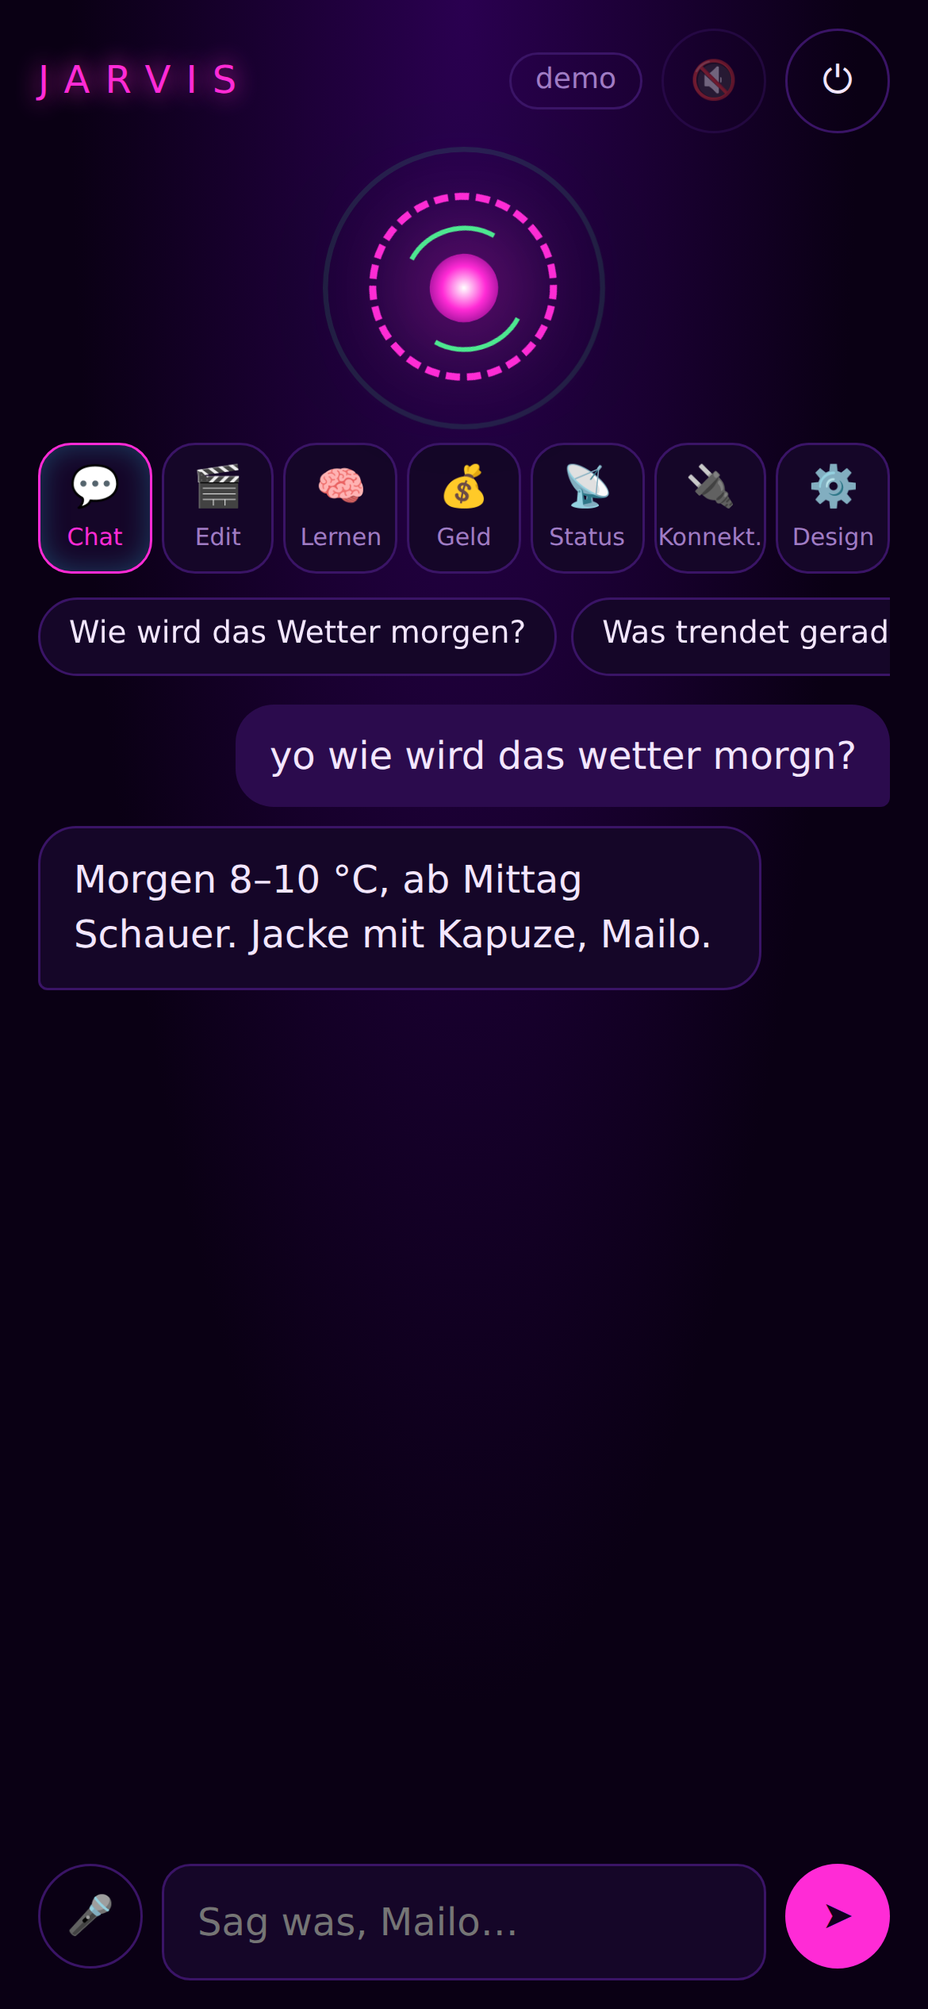
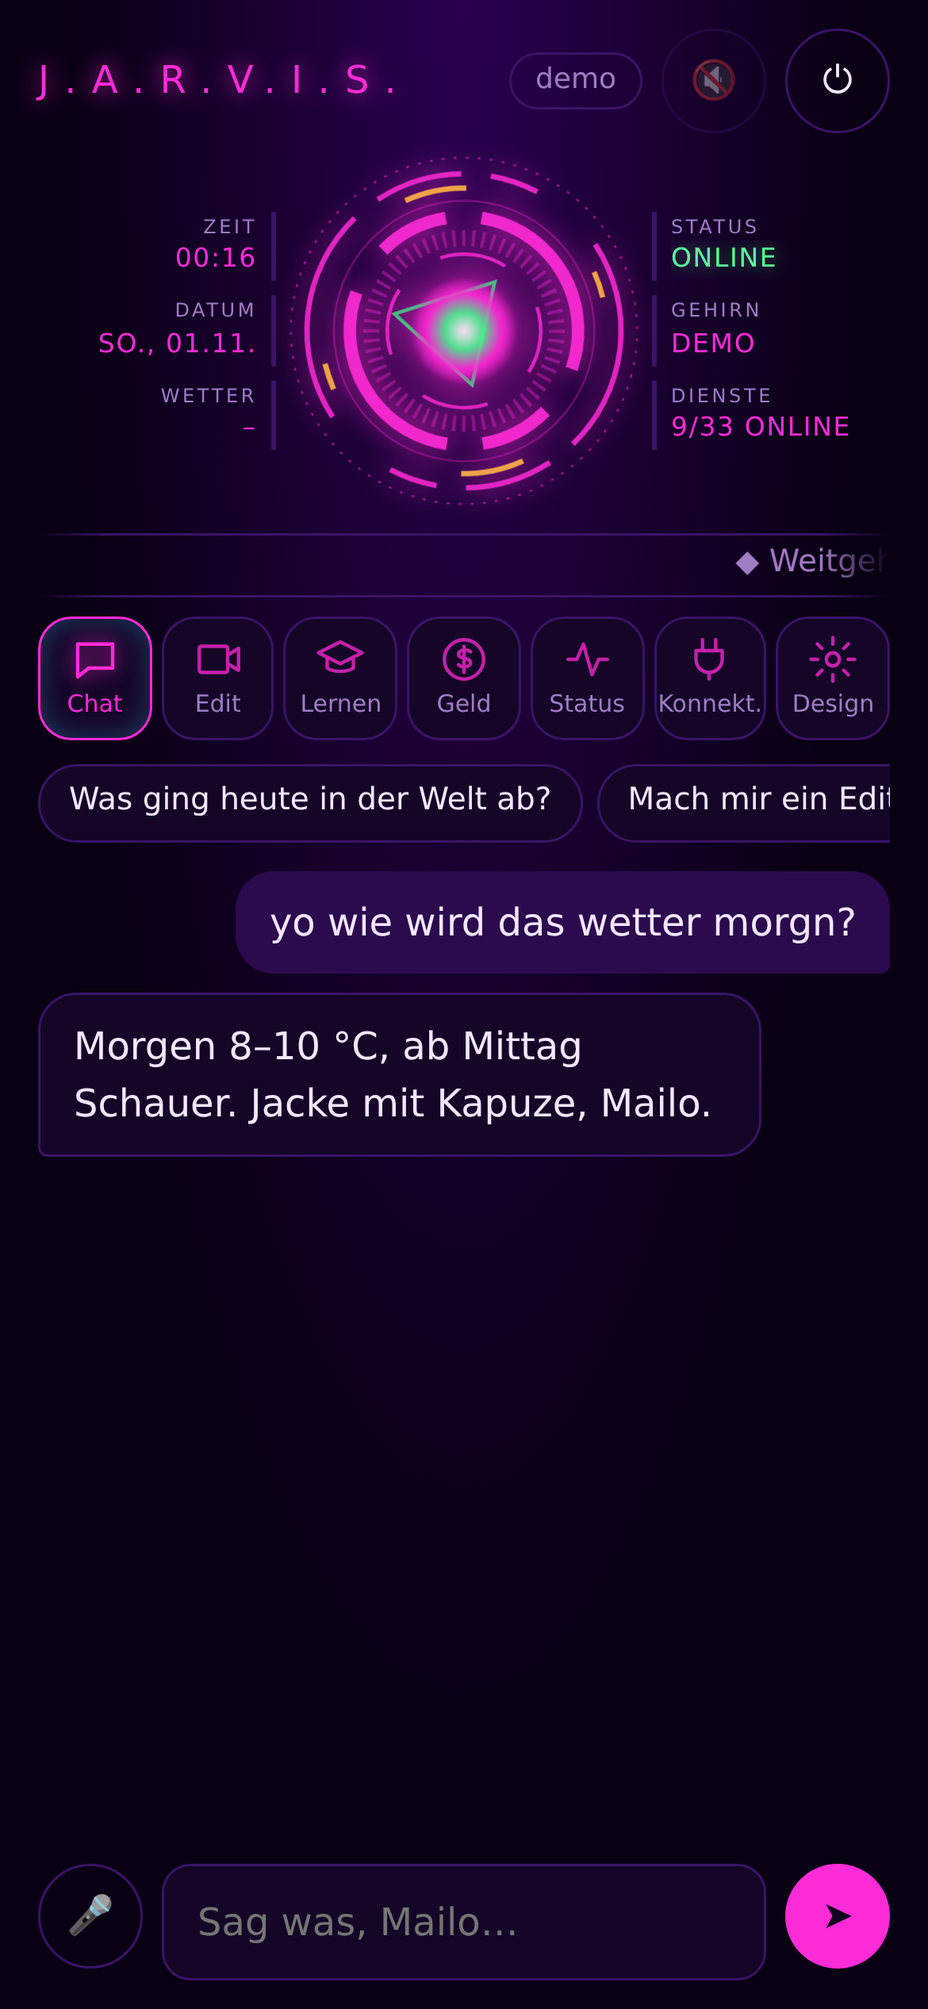
Iron-Man-JARVIS-Look: HUD mit Arc-Reactor-Kreis, Readouts, Nachrichten-Laufband, Boot-Sequenz, Stimm-Puls

diff --git a/web/static/hud.css b/web/static/hud.css
@@ -1,0 +1,118 @@
+/* ===== J.A.R.V.I.S. HUD – inspiriert von Holo-Interfaces ===== */
+[data-skin="ironman"] {
+  --bg: #01070c; --panel: rgba(6, 28, 40, .55); --line: rgba(111, 243, 255, .22); --cyan: #6ff3ff; --cyan2: #c8fbff;
+  --text: #d9fbff; --muted: #6aa6b5; --me: rgba(255, 181, 71, .12); --glow: #04283a; --accent-ink: #00141c;
+  --gold: #ffb547; --alert: #ff4d4d;
+  --font: "Rajdhani", "Segoe UI", system-ui, sans-serif; --hud-font: "Orbitron", "Rajdhani", system-ui, sans-serif;
+}
+:root { --gold: #ffb547; --alert: #ff4d6d; --hud-font: var(--font); --lvl: 0; }
+
+/* Hintergrund: Raster + Scanlines + Vignette */
+.hud-bg { position: fixed; inset: 0; pointer-events: none; z-index: -1; }
+[data-skin="ironman"] .hud-bg {
+  background:
+    radial-gradient(ellipse at 50% 22%, rgba(111, 243, 255, .16), transparent 55%),
+    repeating-linear-gradient(0deg, rgba(111, 243, 255, .035) 0 1px, transparent 1px 4px),
+    linear-gradient(rgba(111, 243, 255, .05) 1px, transparent 1px) 0 0 / 40px 40px,
+    linear-gradient(90deg, rgba(111, 243, 255, .05) 1px, transparent 1px) 0 0 / 40px 40px,
+    radial-gradient(ellipse at center, transparent 50%, rgba(0, 0, 0, .7));
+}
+[data-skin="ironman"] body { background: var(--bg); }
+
+/* Typo */
+.brand, #login h1, .readout small, .readout b, .panel h2, .pill { font-family: var(--hud-font); }
+[data-skin="ironman"] .brand { letter-spacing: .35em; font-size: 15px; text-shadow: 0 0 12px var(--cyan); }
+[data-skin="ironman"] #login h1 { letter-spacing: .3em; font-size: 26px; text-shadow: 0 0 18px var(--cyan); }
+
+/* ===== Reaktor (SVG) ===== */
+.orb.reactor { width: 210px; height: 210px; margin: 0 auto; flex: none; position: relative; }
+.orb.reactor.small { width: 150px; height: 150px; }
+.orb.reactor svg { width: 100%; height: 100%; overflow: visible; filter: drop-shadow(0 0 6px var(--cyan)); }
+.orb.reactor .r { transform-box: fill-box; transform-origin: center; fill: none; stroke: var(--cyan); }
+.orb.reactor .r1 { stroke-width: 1; opacity: .55; animation: spin 40s linear infinite; }
+.orb.reactor .r2 { stroke-width: 3; opacity: .85; animation: spin 18s linear infinite reverse; }
+.orb.reactor .r3 { stroke-width: 1; opacity: .35; }
+.orb.reactor .r4 { stroke-width: 7; opacity: .9; animation: spin 6s linear infinite; }
+.orb.reactor .r5 { stroke-width: 9; opacity: .35; animation: spin 24s linear infinite reverse; }
+.orb.reactor .r6 { stroke: var(--gold); stroke-width: 3; opacity: .9; animation: spin 9s linear infinite; }
+.orb.reactor .r7 { stroke-width: 2; opacity: .8; animation: spin 3s linear infinite reverse; }
+.orb.reactor .tri { fill: none; stroke: var(--cyan2); stroke-width: 2; opacity: .7; transform-box: fill-box; transform-origin: center; animation: spin 14s linear infinite; }
+.orb.reactor .core { transform-box: fill-box; transform-origin: center;
+  transform: scale(calc(1 + var(--lvl) * .45)); transition: transform .06s; animation: breathe 2.6s ease-in-out infinite; }
+.orb.reactor .halo { opacity: calc(.55 + var(--lvl)); }
+@keyframes breathe { 50% { opacity: .82; } }
+.orb.thinking .r4 { animation-duration: 1s; } .orb.thinking .r2 { animation-duration: 4s; } .orb.thinking .r7 { animation-duration: .6s; }
+.orb.thinking .r6 { stroke: var(--cyan2); animation-duration: 1.4s; }
+.orb.listening .r, .orb.listening .tri { stroke: var(--alert); }
+.orb.listening svg { filter: drop-shadow(0 0 10px var(--alert)); }
+.orb.listening .core { animation: breathe .6s ease-in-out infinite; }
+.orb.speaking .r4 { animation-duration: 2s; }
+@media (prefers-reduced-motion: reduce) { .orb.reactor * { animation: none !important; } }
+
+/* Bühne mit Seiten-Readouts */
+.stage { display: grid; grid-template-columns: 1fr auto 1fr; align-items: center; gap: 12px; margin: 4px 0 10px; flex: none; }
+.readout { display: flex; flex-direction: column; gap: 10px; font-size: 12px; min-width: 0; }
+.readout.left { align-items: flex-end; text-align: right; }
+.readout div { display: flex; flex-direction: column; border-right: 2px solid var(--line); padding: 2px 10px; min-width: 0; }
+.readout.right div { border-right: 0; border-left: 2px solid var(--line); }
+.readout small { color: var(--muted); font-size: 9px; letter-spacing: .25em; }
+.readout b { color: var(--cyan); font-weight: 400; font-size: 13px; letter-spacing: .05em; white-space: nowrap; overflow: hidden; text-overflow: ellipsis; }
+.readout b.ok { color: #5dff9d; text-shadow: 0 0 8px #5dff9d88; }
+@media (max-width: 620px) {
+  .stage { grid-template-columns: 1fr auto 1fr; gap: 4px; }
+  .orb.reactor { width: 150px; height: 150px; }
+  .readout { gap: 6px; }
+  .readout div { padding: 1px 6px; }
+  .readout small { font-size: 8px; letter-spacing: .15em; }
+  .readout b { font-size: 11px; }
+}
+
+/* Laufband (Nachrichten) */
+.ticker { overflow: hidden; white-space: nowrap; border-block: 1px solid var(--line); font-size: 13px; color: var(--muted); padding: 3px 0; margin-bottom: 8px; flex: none;
+  mask-image: linear-gradient(90deg, transparent, #000 8%, #000 92%, transparent); }
+.ticker span { display: inline-block; padding-left: 100%; animation: tick 70s linear infinite; }
+@keyframes tick { to { transform: translateX(-100%); } }
+
+/* Holo-Paneele mit Eckklammern + abgeschrägten Ecken */
+[data-skin="ironman"] .panel, [data-skin="ironman"] .tiles button, [data-skin="ironman"] .m.assistant, [data-skin="ironman"] .card {
+  backdrop-filter: blur(4px); -webkit-backdrop-filter: blur(4px);
+}
+[data-skin="ironman"] .panel { position: relative; border-radius: 4px;
+  clip-path: polygon(0 0, calc(100% - 16px) 0, 100% 16px, 100% 100%, 16px 100%, 0 calc(100% - 16px)); }
+[data-skin="ironman"] .panel h2 { letter-spacing: .2em; font-size: 12px; text-transform: uppercase; }
+[data-skin="ironman"] .panel h2::before { content: "▸ "; color: var(--gold); }
+[data-skin="ironman"] .tiles button { border-radius: 4px; clip-path: polygon(0 0, calc(100% - 10px) 0, 100% 10px, 100% 100%, 10px 100%, 0 calc(100% - 10px)); }
+[data-skin="ironman"] .tiles button span { font-family: var(--hud-font); font-size: 9px; letter-spacing: .12em; text-transform: uppercase; }
+[data-skin="ironman"] .tiles button.active { background: rgba(111, 243, 255, .12); box-shadow: 0 0 18px rgba(111, 243, 255, .35) inset; }
+[data-skin="ironman"] .m { border-radius: 3px; font-size: 16px; }
+[data-skin="ironman"] .m.assistant { border-left: 2px solid var(--cyan); background: rgba(6, 28, 40, .6); }
+[data-skin="ironman"] .m.assistant::before { content: "JARVIS ›"; display: block; font: 9px var(--hud-font); letter-spacing: .25em; color: var(--cyan); opacity: .8; margin-bottom: 4px; }
+[data-skin="ironman"] .m.user { border-right: 2px solid var(--gold); background: var(--me); }
+[data-skin="ironman"] input, [data-skin="ironman"] select { border-radius: 3px; background: rgba(4, 20, 30, .7); }
+[data-skin="ironman"] #send { border-radius: 3px; box-shadow: 0 0 16px rgba(111, 243, 255, .5); }
+[data-skin="ironman"] .icon { border-radius: 3px; }
+[data-skin="ironman"] #mic { border-color: var(--gold); color: var(--gold); }
+[data-skin="ironman"] #mic.on { background: var(--alert); border-color: var(--alert); box-shadow: 0 0 18px var(--alert); }
+[data-skin="ironman"] .chips button { border-radius: 3px; font-family: var(--font); }
+[data-skin="ironman"] .pill { font-size: 10px; letter-spacing: .15em; border-radius: 3px; color: var(--cyan); }
+
+/* Boot-Sequenz */
+#boot { position: fixed; inset: 0; z-index: 50; background: var(--bg); display: flex; flex-direction: column; align-items: center; justify-content: center; gap: 22px;
+  transition: opacity .6s; }
+#boot.out { opacity: 0; pointer-events: none; }
+#bootLog { font: 12px/1.7 var(--hud-font); color: var(--cyan); letter-spacing: .12em; min-height: 8em; width: min(360px, 90vw); margin: 0; white-space: pre-wrap; }
+
+/* Video-Ergebnisse */
+.m video { width: 100%; max-width: 320px; border-radius: 6px; display: block; margin-top: 8px; border: 1px solid var(--line); background: #000; }
+.m .vbtns { display: flex; gap: 6px; flex-wrap: wrap; margin-top: 8px; }
+.m .vbtns a, .m .vbtns button { font-size: 13px; border: 1px solid var(--cyan); color: var(--cyan); background: transparent; border-radius: 3px; padding: 6px 10px; text-decoration: none; }
+.m .progress { height: 4px; background: var(--line); margin-top: 8px; overflow: hidden; }
+.m .progress i { display: block; height: 100%; width: 0; background: var(--cyan); box-shadow: 0 0 8px var(--cyan); transition: width .4s; }
+.tiles button svg { color: var(--cyan); opacity: .75; }
+.tiles button.active svg { opacity: 1; filter: drop-shadow(0 0 4px var(--cyan)); }
+@media (min-width: 900px) {
+  [data-skin="ironman"] #app { max-width: 1000px; }
+  .orb.reactor:not(.small) { width: 260px; height: 260px; }
+  .readout b { font-size: 16px; }
+  .readout small { font-size: 10px; }
+}

diff --git a/web/static/app.js b/web/static/app.js
@@ -1,4 +1,38 @@
 const $ = (s) => document.querySelector(s);
+
+// ---------- Reaktor-SVG ----------
+const REACTOR = `<svg viewBox="0 0 200 200" aria-hidden="true">
+  <defs>
+    <radialGradient id="coreGrad"><stop offset="0" style="stop-color:#fff"/><stop offset=".35" style="stop-color:var(--cyan2)"/><stop offset=".7" style="stop-color:var(--cyan)"/><stop offset="1" style="stop-color:var(--cyan);stop-opacity:0"/></radialGradient>
+    <radialGradient id="haloGrad"><stop offset="0" style="stop-color:var(--cyan);stop-opacity:.35"/><stop offset="1" style="stop-color:var(--cyan);stop-opacity:0"/></radialGradient>
+  </defs>
+  <circle class="halo" cx="100" cy="100" r="70" fill="url(#haloGrad)"/>
+  <circle class="r r1" cx="100" cy="100" r="97" pathLength="360" stroke-dasharray="1 3"/>
+  <circle class="r r2" cx="100" cy="100" r="88" pathLength="100" stroke-dasharray="22 3 9 3 5 8"/>
+  <circle class="r r6" cx="100" cy="100" r="80" pathLength="100" stroke-dasharray="7 18 3 22"/>
+  <circle class="r r3" cx="100" cy="100" r="73"/>
+  <circle class="r r4" cx="100" cy="100" r="64" pathLength="100" stroke-dasharray="28 7 10 5"/>
+  <circle class="r r5" cx="100" cy="100" r="52" pathLength="180" stroke-dasharray="1 2"/>
+  <circle class="r r7" cx="100" cy="100" r="43" pathLength="100" stroke-dasharray="14 11"/>
+  <polygon class="tri" points="100,66 129.4,117 70.6,117"/>
+  <circle class="core" cx="100" cy="100" r="30" fill="url(#coreGrad)"/>
+</svg>`;
+document.querySelectorAll(".orb.reactor").forEach((o, i) => (o.innerHTML = REACTOR.replaceAll("coreGrad", "coreGrad" + i).replaceAll("haloGrad", "haloGrad" + i)));
+
+// Linien-Icons im HUD-Stil
+const ICONS = {
+  chat: '<path d="M4 5h16v11H9l-5 4z"/>',
+  edit: '<rect x="3" y="6" width="13" height="12" rx="1"/><path d="M16 10l5-3v10l-5-3"/>',
+  learn: '<path d="M2 9l10-5 10 5-10 5z"/><path d="M6 11v5c3 2 9 2 12 0v-5"/>',
+  money: '<circle cx="12" cy="12" r="9"/><path d="M15 8.5c-1-1-5-1.5-5.5 1s5.5 1.5 5.5 4-4.5 2-5.5 1M12 6v12"/>',
+  status: '<path d="M3 12h4l3-7 4 14 3-7h4"/>',
+  konnektoren: '<path d="M9 3v5M15 3v5M6 8h12v4a6 6 0 01-12 0zM12 18v3"/>',
+  settings: '<circle cx="12" cy="12" r="3"/><path d="M12 2v3M12 19v3M2 12h3M19 12h3M4.9 4.9l2.1 2.1M17 17l2.1 2.1M4.9 19.1L7 17M17 7l2.1-2.1"/>',
+};
+document.querySelectorAll(".tiles button").forEach((b) => {
+  const label = b.querySelector("span").outerHTML;
+  b.innerHTML = `<svg viewBox="0 0 24 24" width="22" height="22" fill="none" stroke="currentColor" stroke-width="1.6" stroke-linecap="round" stroke-linejoin="round">${ICONS[b.dataset.tile] || ""}</svg>` + label;
+});
 const store = {
   get: (k, d) => { try { const v = localStorage.getItem(k); return v === null ? d : JSON.parse(v); } catch { return d; } },
   set: (k, v) => { try { localStorage.setItem(k, JSON.stringify(v)); } catch {} },
@@ -56,7 +90,7 @@ $("#logout").onclick = () => { store.set("jarvisToken", ""); token = ""; showLog
 
 // ---------- Modes / tiles ----------
 const MODE_INFO = {
-  chat:  { ph: "Sag was, Mailo…", hello: "Hey Mailo, was geht?" },
+  chat:  { ph: "Sag was, Mailo…", hello: "Zu Diensten, Mailo. Frag mich, was heute in der Welt los war – oder sag „Mach mir ein Edit über …“." },
   edit:  { ph: "Thema für den Edit (z.B. Skate-Montage im Herbst)", hello: "Gib mir ein Thema – ich plan Hook, Clips, Musik und Schnitte." },
   learn: { ph: "Erklär mir … (z.B. Zinseszins)", hello: "Was willst du lernen? Ich erklär's kurz und stell dir 'ne Quizfrage." },
 };
@@ -80,7 +114,7 @@ function selectTile(t) {
 
 // ---------- Quick-Chips ----------
 const CHIPS = {
-  chat: ["Wie wird das Wetter morgen?", "Was trendet gerade?", "/bild Gaming-Setup mit Neonlicht"],
+  chat: ["Was ging heute in der Welt ab?", "Mach mir ein Edit über Herbst in der Stadt", "Wie wird das Wetter morgen?", "Was trendet gerade?"],
   edit: ["Skate-Montage im Herbst", "Fortnite-Highlights mit Bass-Drops", "/bild YouTube-Thumbnail, schockiertes Gesicht, Explosion"],
   learn: ["Erklär mir Zinseszins", "Was ist ein ETF?", "Erklär mir, wie Algorithmen auf TikTok funktionieren"],
 };
@@ -165,7 +199,7 @@ function renderChat() {
   if (!h.length) addBubble("assistant", MODE_INFO[mode].hello);
   h.forEach((m) => addBubble(m.role, m.content, m.image));
 }
-function orb(state) { $("#orb").className = "orb " + (state || ""); }
+function orb(state) { $("#orb").className = "orb reactor " + (state || ""); }
 
 $("#chatForm").onsubmit = async (e) => {
   e.preventDefault();
@@ -216,7 +250,24 @@ function germanVoice() {
   const v = speechSynthesis.getVoices().filter((v) => v.lang?.toLowerCase().startsWith("de"));
   return v.find((x) => /google|natural|neural|anna|helena|markus/i.test(x.name)) || v[0];
 }
-let audio = null;
+let audio = null, actx = null;
+// Kern pulsiert mit der Stimme
+function pulse(el) {
+  try {
+    actx = actx || new (window.AudioContext || window.webkitAudioContext)();
+    const src = actx.createMediaElementSource(el), an = actx.createAnalyser();
+    an.fftSize = 256; src.connect(an); an.connect(actx.destination);
+    const buf = new Uint8Array(an.frequencyBinCount);
+    const loop = () => {
+      an.getByteFrequencyData(buf);
+      const lvl = buf.reduce((a, b) => a + b, 0) / buf.length / 140;
+      document.documentElement.style.setProperty("--lvl", Math.min(1, lvl).toFixed(3));
+      if (!el.paused && !el.ended) requestAnimationFrame(loop);
+      else document.documentElement.style.setProperty("--lvl", 0);
+    };
+    el.addEventListener("play", loop);
+  } catch {}
+}
 async function speak(text) {
   if (!ttsOn) return orb();
   audio?.pause(); speechSynthesis?.cancel();
@@ -224,6 +275,7 @@ async function speak(text) {
     const r = await fetch("/api/tts", { method: "POST", headers: { Authorization: "Bearer " + token, "Content-Type": "application/json" }, body: JSON.stringify({ text }) });
     if (r.ok) {
       audio = new Audio(URL.createObjectURL(await r.blob()));
+      pulse(audio);
       audio.onplay = () => orb("speaking"); audio.onended = audio.onerror = () => orb();
       await audio.play(); return;
     }
@@ -278,11 +330,46 @@ async function loadStatus() {
 }
 
 // ---------- Start ----------
+// ---------- HUD ----------
+function clock() {
+  const d = new Date();
+  $("#hudTime").textContent = d.toLocaleTimeString("de-DE", { hour: "2-digit", minute: "2-digit" });
+  $("#hudDate").textContent = d.toLocaleDateString("de-DE", { weekday: "short", day: "2-digit", month: "2-digit" }).toUpperCase();
+}
+setInterval(clock, 10000); clock();
+async function loadHud() {
+  try {
+    const h = await api("/api/hud");
+    $("#hudWeather").textContent = h.wetter || "–";
+    $("#hudBrain").textContent = (h.gehirn || "DEMO").toUpperCase();
+    $("#hudCon").textContent = `${h.verbunden}/${h.gesamt} ONLINE`;
+    $("#provider").textContent = h.gehirn || "demo";
+    if (h.schlagzeilen?.length) {
+      $("#ticker").hidden = false;
+      $("#ticker span").textContent = h.schlagzeilen.map((t) => "◆ " + t).join("     ");
+    }
+    return h;
+  } catch { return {}; }
+}
+function gruss() {
+  const h = new Date().getHours();
+  return h < 5 ? "Noch wach, Mailo?" : h < 11 ? "Guten Morgen, Mailo." : h < 17 ? "Hey Mailo." : h < 22 ? "Guten Abend, Mailo." : "Späte Schicht, Mailo?";
+}
+async function bootSequence(h) {
+  if (sessionStorage.getItem("jarvisBooted") || qs.get("noboot")) return;
+  sessionStorage.setItem("jarvisBooted", "1");
+  const b = $("#boot"), log = $("#bootLog"); b.hidden = false;
+  const lines = ["J.A.R.V.I.S. INITIALISIERUNG", "> KERNSYSTEME ......... OK", `> DIENSTE ............. ${h.verbunden ?? "?"}/${h.gesamt ?? "?"}`,
+    `> GEHIRN .............. ${(h.gehirn || "DEMO").toUpperCase()}`, "> STIMME .............. OK", "", gruss().toUpperCase()];
+  for (const l of lines) { log.textContent += l + "\n"; await new Promise((r) => setTimeout(r, 220)); }
+  await new Promise((r) => setTimeout(r, 600));
+  b.classList.add("out"); setTimeout(() => (b.hidden = true), 650);
+}
+
 function startApp() {
   $("#login").hidden = true; $("#app").hidden = false;
+  loadHud().then(bootSequence); setInterval(loadHud, 5 * 60 * 1000);
   selectTile(qs.get("tile") || "chat");
-  api("/api/status").then((s) => {
-    $("#provider").textContent = s.gehirn[0] || "demo";
-  }).catch(() => {});
+
 }
 (async () => { if (token && await tryLogin(token)) startApp(); else showLogin(); })();

diff --git a/web/static/index.html b/web/static/index.html
@@ -3,21 +3,30 @@
 <head>
 <meta charset="utf-8">
 <meta name="viewport" content="width=device-width, initial-scale=1, viewport-fit=cover">
-<meta name="theme-color" content="#05070d">
+<meta name="theme-color" content="#01070c">
 <meta name="apple-mobile-web-app-capable" content="yes">
 <meta name="apple-mobile-web-app-status-bar-style" content="black-translucent">
 <title>Jarvis</title>
 <link rel="manifest" href="/manifest.json">
 <link rel="icon" href="/static/icon.svg">
 <link rel="apple-touch-icon" href="/static/icon.svg">
+<link rel="preconnect" href="https://fonts.googleapis.com">
+<link rel="stylesheet" href="https://fonts.googleapis.com/css2?family=Orbitron:wght@400;600&family=Rajdhani:wght@500;600&display=swap">
 <link rel="stylesheet" href="/static/style.css">
+<link rel="stylesheet" href="/static/hud.css">
 <script>try{document.documentElement.dataset.skin=JSON.parse(localStorage.getItem("jarvisSkin"))||"ironman"}catch(e){}</script>
 </head>
 <body>
+<div class="hud-bg" aria-hidden="true"></div>
+<!-- Boot-Sequenz -->
+<div id="boot" hidden aria-hidden="true">
+  <div class="orb reactor"></div>
+  <pre id="bootLog"></pre>
+</div>
 <!-- Login -->
 <section id="login" hidden>
-  <div class="orb small"><i></i><i></i><i></i><b></b></div>
-  <h1>JARVIS</h1>
+  <div class="orb reactor small"></div>
+  <h1>J.A.R.V.I.S.</h1>
   <form id="loginForm">
     <input id="tokenInput" type="password" placeholder="Zugangs-Token" autocomplete="current-password" required>
     <button>Rein</button>
@@ -28,13 +37,26 @@
 <!-- App -->
 <main id="app" hidden>
   <header>
-    <span class="brand">JARVIS</span>
+    <span class="brand">J.A.R.V.I.S.</span>
     <span id="provider" class="pill">…</span>
     <button id="ttsToggle" class="icon" title="Vorlesen an/aus">🔊</button>
     <button id="logout" class="icon" title="Abmelden">⏻</button>
   </header>
 
-  <div class="orb" id="orb"><i></i><i></i><i></i><b></b></div>
+  <div class="stage">
+    <aside class="readout left" id="hudLeft">
+      <div><small>ZEIT</small><b id="hudTime">--:--</b></div>
+      <div><small>DATUM</small><b id="hudDate">–</b></div>
+      <div><small>WETTER</small><b id="hudWeather">–</b></div>
+    </aside>
+    <div class="orb reactor" id="orb"></div>
+    <aside class="readout right" id="hudRight">
+      <div><small>STATUS</small><b class="ok">ONLINE</b></div>
+      <div><small>GEHIRN</small><b id="hudBrain">–</b></div>
+      <div><small>DIENSTE</small><b id="hudCon">–</b></div>
+    </aside>
+  </div>
+  <div class="ticker" id="ticker" hidden><span></span></div>
 
   <nav class="tiles">
     <button data-tile="chat" class="active">💬<span>Chat</span></button>

diff --git a/web/app.py b/web/app.py
@@ -232,6 +232,35 @@ def status():
     return {"keys": keys, "tools": tools, "gehirn": [m.titel for m in K.gehirne()], "verbunden": verbunden}
 
 
+_hud_cache: dict = {"t": 0, "data": {}}
+
+
+@app.get("/api/hud", dependencies=[Depends(require_auth)])
+async def hud():
+    alle = K.alle()
+    gehirne = K.gehirne()
+    data = {"gehirn": gehirne[0].titel if gehirne else "", "gesamt": len(alle),
+            "verbunden": sum(K.status(m) == "verbunden" for m in alle)}
+    if time.time() - _hud_cache["t"] > 600:
+        extra = {}
+        async with httpx.AsyncClient(timeout=6, follow_redirects=True) as c:
+            try:
+                w = await wissen.wetter(c, "wetter")
+                if w:  # "Wetter Berlin: jetzt 9.3°C, leichter Regen, ..." -> "BERLIN 9°C"
+                    m = re.match(r"Wetter (.+?): jetzt ([\d.-]+)°C, ([^,]+)", w)
+                    extra["wetter"] = f"{m.group(1).upper()} {round(float(m.group(2)))}°C" if m else ""
+                    extra["wetter_lang"] = w
+            except Exception:
+                pass
+            try:
+                extra["schlagzeilen"] = [i["titel"] for i in await wissen.nachrichten_liste(c, 8)]
+            except Exception:
+                pass
+        # unvollständig? dann in 1 Minute nochmal versuchen statt 10
+        _hud_cache.update(t=time.time() - (0 if extra.get("wetter") and extra.get("schlagzeilen") else 540), data=extra)
+    return {**_hud_cache["data"], **data}
+
+
 @app.post("/api/login")
 def login(authorization: str = Header(default="")):
     require_auth(authorization)

diff --git a/tools/screenshots.py b/tools/screenshots.py
@@ -71,15 +71,19 @@ def main():
                 nonlocal n
                 page.goto(url)
                 page.wait_for_selector("#app:not([hidden])", timeout=10000)
-                page.wait_for_timeout(1500)  # Animation + Daten
+                try:
+                    page.wait_for_function("document.querySelector('#hudCon').textContent !== '–'", timeout=12000)
+                except Exception:
+                    pass
+                page.wait_for_timeout(1500)  # Animation
                 page.screenshot(path=OUT / f"{name}-{geraet}.png")
                 n += 1
 
 
             for k in KACHELN:
-                shot(NAMEN.get(k, k), f"{URL}/?tile={k}&skin=ironman")
+                shot(NAMEN.get(k, k), f"{URL}/?tile={k}&skin=ironman&noboot=1")
             for s in SKINS:
-                shot(f"design-{s}", f"{URL}/?tile=chat&skin={s}")
+                shot(f"design-{s}", f"{URL}/?tile=chat&skin={s}&noboot=1")
             ctx.close()
         browser.close()
     print(f"{n} Screenshots in {OUT.relative_to(ROOT)}/  ->  {URL}/vorschau")
